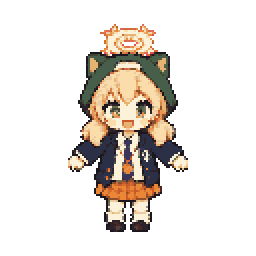
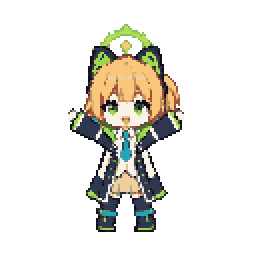
fix(kasaterm): 미도리 wave/cheer 스프라이트 재생성 + override 파일명 버그
- wave/cheer 프레임이 생성 시점부터 코하루/혼종 이미지였음 — ppgen(codex)으로
  정식 미도리 프레임 재생성, 번들 assets + arona-ui character-src(gif/apng) 교체
- user_sprite_images: walk 외 모션이 idle 파일명으로 새던 버그 — idle만 무접미,
  나머지는 slug-<motion>-N 규약으로 통일 (12명 전 모션 검사, 오염은 미도리뿐)

Changed region(s): [[0.25, 0.0938, 0.75, 0.9062]]

diff --git a/app/kasaterm/src/render.rs b/app/kasaterm/src/render.rs
@@ -6328,10 +6328,13 @@ fn user_sprite_images(slug: &str, motion: &str) -> Option<Vec<image::RgbaImage>>
     };
     let mut out = Vec::with_capacity(n);
     for i in 0..n {
-        let fname = if motion == "walk" {
-            format!("{slug}-walk-{i}.png")
-        } else {
+        // 번들 파일명 규약과 동일: idle 만 무접미(`slug-N`), 나머지 모션은
+        // `slug-<motion>-N`. walk 외 모션이 idle 파일명으로 새면 override 시
+        // wave/cheer 가 idle 프레임으로 둔갑한다.
+        let fname = if motion == "idle" {
             format!("{slug}-{i}.png")
+        } else {
+            format!("{slug}-{motion}-{i}.png")
         };
         let img = downscale_student(image::open(dir.join(&fname)).ok()?);
         out.push(img.to_rgba8());
